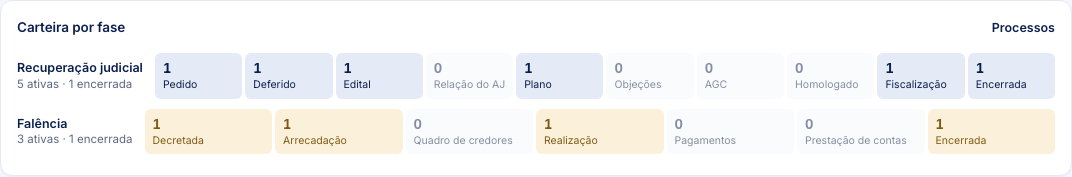
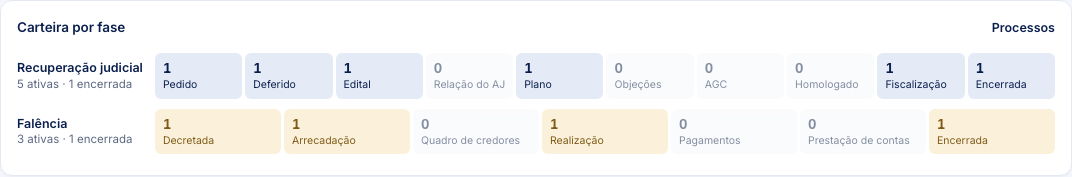
fix(HF-01): achados do /code-review
- As duas trilhas dividem a coluna do rótulo (subgrid): com max-content em cada uma, as fases
  da RJ e da falência começavam em x diferentes.
- O QDR-16 com a Inter espera a fonte carregar (display=swap) antes de medir.
- Comentários dizem de que depende a folga (números do seed, conferida pelo QDR-16) e que a fonte
  de reserva é a da máquina que roda o teste.
- Capturas do depois refeitas.

Claude-Session: https://claude.ai/code/session_01RPcRxmTRKb9Ywf1xED1isr

diff --git a/e2e/quadros-carteira.spec.ts b/e2e/quadros-carteira.spec.ts
@@ -47,7 +47,8 @@ const EXTREMOS = [
 ] as const
 
 // A Inter vem do Google Fonts. Sem ela (bloqueador, rede), a fonte de reserva mede o texto um pouco
-// mais largo: o rótulo de 116px quebrava e o corpo cortava o fim de "Falência" (HF-01).
+// mais largo: o rótulo de 116px quebrava e o corpo cortava o fim de "Falência" (HF-01). A reserva é
+// a da máquina que roda o teste (SF no macOS, DejaVu no CI): cobre uma métrica diferente, não todas.
 for (const fonte of ['inter', 'reserva'] as const) {
   test(`QDR-16 · três variantes sem estouro nos extremos de largura (fonte ${fonte})`, async ({
     page,
@@ -57,6 +58,18 @@ for (const fonte of ['inter', 'reserva'] as const) {
     }
     await page.setViewportSize({ width: 1440, height: 900 })
     await entrarComo(page, 'aj')
+    if (fonte === 'inter') {
+      // display=swap: sem esperar, as primeiras medidas podiam sair na fonte de reserva.
+      await expect
+        .poll(() =>
+          page.evaluate(() =>
+            [...document.fonts].some(
+              (f) => f.family.replace(/"/g, '') === 'Inter' && f.status === 'loaded',
+            ),
+          ),
+        )
+        .toBe(true)
+    }
     const cascas = await medirCascas(page)
 
     for (const extremo of EXTREMOS) {

diff --git a/src/modulos/inicio/quadros/QuadroCarteira.module.css b/src/modulos/inicio/quadros/QuadroCarteira.module.css
@@ -106,19 +106,22 @@ a.fase:hover {
 }
 
 /* Desktop (4×1): duas faixas, com o tipo e o resumo numa coluna à esquerda. A coluna tem a
-   largura do texto, sem quebra: com 116px fixos, o resumo cabia com menos de 1px de folga na Inter
-   e quebrava com outra fonte, e o corpo cortava o fim do rótulo (HF-01). No contêiner de 880px,
-   as fases ainda têm folga. */
+   largura do rótulo mais longo, sem quebra, e as duas trilhas a dividem (subgrid), então as fases
+   começam no mesmo x. Com 116px fixos, o resumo cabia com menos de 1px de folga na Inter e quebrava
+   com outra fonte, e o corpo cortava o fim do rótulo (HF-01). Com os números do seed, as fases
+   ainda têm folga no contêiner de 880px; o QDR-16 da carteira confere. */
 
 .desktop {
-  gap: 10px;
+  display: grid;
+  grid-template-columns: max-content minmax(0, 1fr);
+  gap: 10px 12px;
   margin-top: 12px;
 }
 
 .desktop .trilha {
   display: grid;
-  grid-template-columns: max-content minmax(0, 1fr);
-  gap: 12px;
+  grid-column: 1 / -1;
+  grid-template-columns: subgrid;
   align-items: center;
 }
 
